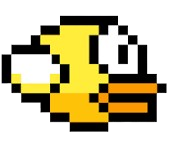
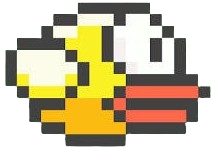
added something i dont like

diff --git a/Code.js b/Code.js
@@ -37,7 +37,6 @@ document.addEventListener("keydown", (e) => {
     e.code === "KeyF" ||
     e.code === "KeyJ"
   ) {
-
     flapSound.play();
     bird_dy = -7;
   }
@@ -76,6 +75,7 @@ function startGame() {
     frame++;
     checkCollsion();
     getDifficultySetting();
+    //updateBirdAvatar(score); I dont like it
 
     if (frame % frame_time === 0) {
       createPipe();
@@ -121,7 +121,7 @@ function createPipe() {
 function movePipes() {
   for (let pipe of pipes) {
     pipe.style.left = pipe.offsetLeft - pipeSpeed + "px";
-console.log(pipeSpeed);
+    console.log(pipeSpeed);
     //remove pipes from screen
     if (pipe.offsetLeft < -pipe.offsetWidth) {
       pipe.remove();
@@ -170,10 +170,9 @@ function checkCollsion() {
 
 //if you ask what this does there will be problems
 function endGame() {
-
-if (Number(score) > Number(highScore)) {
-  localStorage.setItem("bambooHighScore", score);
-}
+  if (Number(score) > Number(highScore)) {
+    localStorage.setItem("bambooHighScore", score);
+  }
 
   hitSound.play();
   newDiv.style.top = "30%";
@@ -182,7 +181,7 @@ if (Number(score) > Number(highScore)) {
   start_btn.style.right = "43%";
   start_btn.style.width = "300px";
   start_btn.style.height = "100px";
-  difficulty.style.top = "50%"
+  difficulty.style.top = "50%";
   clearInterval(gameInterval);
   gameInterval = null;
   backgroundMusic.pause();
@@ -192,7 +191,7 @@ if (Number(score) > Number(highScore)) {
 
 //-----------v
 function resetGame() {
-  bird.style.transform = `rotate(${90}deg)`
+  bird.style.transform = `rotate(${90}deg)`;
   Score_Text.textContent = "Score: " + score;
   bird.style.top = "20%";
   bird_dy = 0;
@@ -249,9 +248,19 @@ muteButton.addEventListener("click", () => {
   if (musicMuted) {
     backgroundMusic.play();
     muteButton.textContent = "Mute Music";
-  }else {
+  } else {
     backgroundMusic.pause();
     muteButton.textContent = "Play Music";
   }
   musicMuted = !musicMuted;
-})
+});
+
+function updateBirdAvatar(score) {
+  if (score >= 10 && score < 20) {
+    bird.style.background = "url(assets/Toucan.png)";
+  } else if (score >= 20) {
+    bird.style.background = "url(assets/Parrot.png)"
+  } else {
+    bird.style.background = "url(assets/flappy\ bird.png) no-repeat center center"
+  }
+}

diff --git a/index.html b/index.html
@@ -3,6 +3,7 @@
   <head>
     <title>Bamboo Bird</title>
     <script src="./Code.js" defer></script>
+    <link rel="icon" type="image/png" href="assets/Ixcon.png">
     <link rel="stylesheet" href="./Style.css" />
     <div>
       <link rel="preconnect" href="https://fonts.googleapis.com" />
@@ -11,12 +12,16 @@
         href="https://fonts.googleapis.com/css2?family=Cal+Sans&display=swap"
         rel="stylesheet"
       />
+      <link rel="preconnect" href="https://fonts.googleapis.com">
+<link rel="preconnect" href="https://fonts.gstatic.com" crossorigin>
+<link href="https://fonts.googleapis.com/css2?family=Pixelify+Sans:wght@400..700&display=swap" rel="stylesheet">
     </div>
   </head>
   <body>
     <div id="game_container">
       <div id="bird"></div>
       <div id="score">Score: 0</div>
+      <h1 id="title">Jungle Bird</h1>
     </div>
     <button id="start-btn" onclick="onStartButtonClick();">Start Game</button>
     <button id="muteButton">Mute Music</button>

diff --git a/Style.css b/Style.css
@@ -68,17 +68,17 @@ body {
 .pipe {
   position: absolute;
   width: 100px;
-  background: url("assets/Bamboo7.png") repeat-y center center;
+  background: url("assets/Cobble.jpg") repeat-y center center;
   z-index: 2;
-  border: solid 2px;
+  border: solid 4px;
 }
 
 .top-pipetop {
-  border: solid 2px;
+  border: solid 4px;
 }
 
 .bottom-pipe {
-  border: solid 2px;
+  border: solid 4px;
 }
 
 .endBox {
@@ -87,7 +87,7 @@ body {
   left: 30%;
   width: 700px;
   height: 300px;
-  background-color: #3d823e ;
+  background-color: #3d823e;
   z-index: 3;
   border: solid 10px;
   transition: 1s ease-in-out;
@@ -115,4 +115,18 @@ body {
   transition: 1s ease-in-out;
   background: #855e3e;
   border: solid 5px;
+}
+
+
+.pixelify-sans {
+  font-family: "Pixelify Sans", sans-serif;
+  font-optical-sizing: auto;
+  font-weight: weight;
+  font-style: normal;
+}
+
+#title {
+  font-family: "Pixelify Sans", sans-serif;
+  top: 10%;
+  right: 50%;
 }
